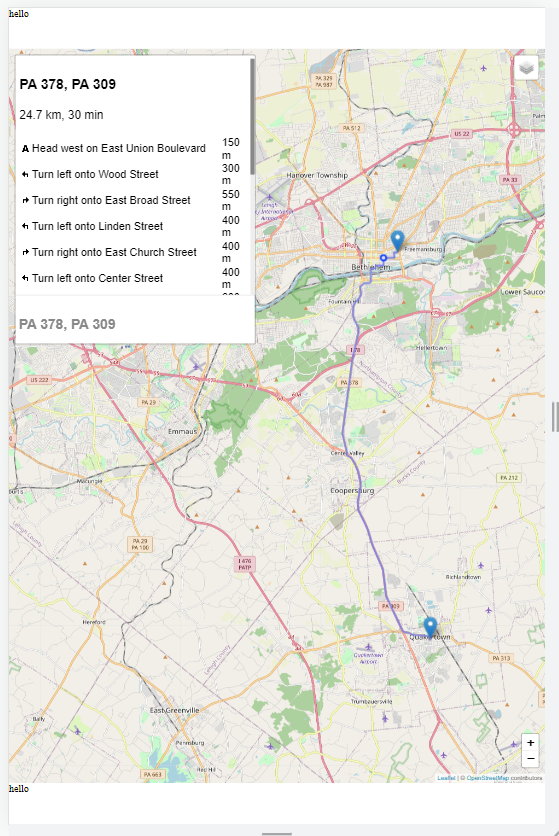
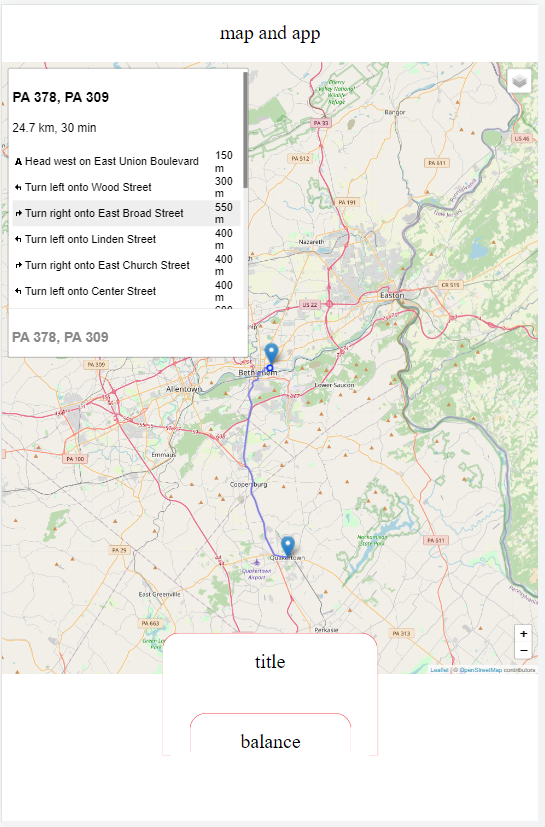
updated look and readme app wrapper developing

diff --git a/src/App.js b/src/App.js
@@ -12,10 +12,59 @@ export default function App() {
     const b = [40.4404497141891, -75.34140475576858]; // quakertown
     return (
         <div style={{margin:'0px'}}>
-            <div style={{height:'5vh',margin:'0px'}}>hello</div>
+            <div style={{
+                height:'5vh',
+                fontSize:'2rem',
+                width:'100vw',
+                marginLeft:'auto',
+                marginRight:'auto',
+                display:'inline-block',
+                textAlign:'center',
+                paddingTop:'2vh'
+                }}>map and app</div>
             {/** adding some props to map and then way to update them **/}
             <Map center={center} a={a} b={b} />
-            <div style={{height:'5vh',margin:'0px'}}>hello</div>
+            <div style={{
+                height:'20vh',
+                zIndex:'3',
+                backgroundColor:'#FFFFFF'
+                
+            }}>
+                <div style={{
+                    border:'solid red',
+                    borderWidth:'0.4px 0.4px 0px 0.4px',
+                    borderRadius:'30px 30px 0px 0px',
+                    width:'40vw',
+                    height:'15vh',
+                    position:'relative',
+                    top:'-5vh',
+                    zIndex:'1000',
+                    margin:'0 auto',
+                    backgroundColor:'#FFFFFF',
+                }}>
+                    <div style={{
+                        fontSize:'2rem',
+                        width:'40vw',
+                        marginLeft:'auto',
+                        marginRight:'auto',
+                        marginTop:'2vh',
+                        display:'inline-block',
+                        textAlign:'center'
+                    }}>title</div>
+                    <div style={{
+                        border:'solid red',
+                        borderWidth:'0.6px 0.6px 0px 0.6px',
+                        borderRadius:'30px 30px 0px 0px',
+                        fontSize:'2rem',
+                        width:'30vw',
+                        marginLeft:'5vw',
+                        marginTop:'5vh',
+                        display:'inline-block',
+                        textAlign:'center',
+                        paddingTop:'2vh'
+                    }}>balance</div>
+                </div>
+            </div>
         </div>
   );
 }

diff --git a/src/Map.jsx b/src/Map.jsx
@@ -25,7 +25,7 @@ const Map = (props,a,b) => {
         center={props.center}
         zoom={1}
         zoomControl={false}
-        style={{ height: "90vh", width: "100vw", padding: 0 }}
+        style={{ height: "75vh", width: "100vw", padding: 0 }}
         whenCreated={map => setMap(map)}
       >
         {/* *************** */}

diff --git a/README.md b/README.md
@@ -4,6 +4,14 @@
 
 # Getting Started with Create React App
 
-Project base was copypasta from [npm install](https://stackblitz.com/edit/react-leaflet-routing-machine-core-api?file=src%2FApp.js). I then moved the css up and start modding it and working on a wrapper - changed the start and finish and map specifics and WIP adding other app elements
+In this case I did not take the time to create react app and I skipped the initial typescript in favor of jsx. Project base was copypasta from [this person's stackblitz post](https://stackblitz.com/edit/react-leaflet-routing-machine-core-api?file=src%2FApp.js) (thank you 👏).
+
+I then moved the css from leaflep node_modules up to a src directory and started modding it as needed. I began working on a wrapper - changed the start and finish and map specifics and WIP adding other app elements.
+
+# Adding an App around the Map for a Pwa
+
+And so, as you join me on this journey you will see the app develop around the map. I have added
+a basic header and footer and am styling the footer to incorperate the BEIR coin inventory and
+cart elements. I will leave it at that for now...
 
 
